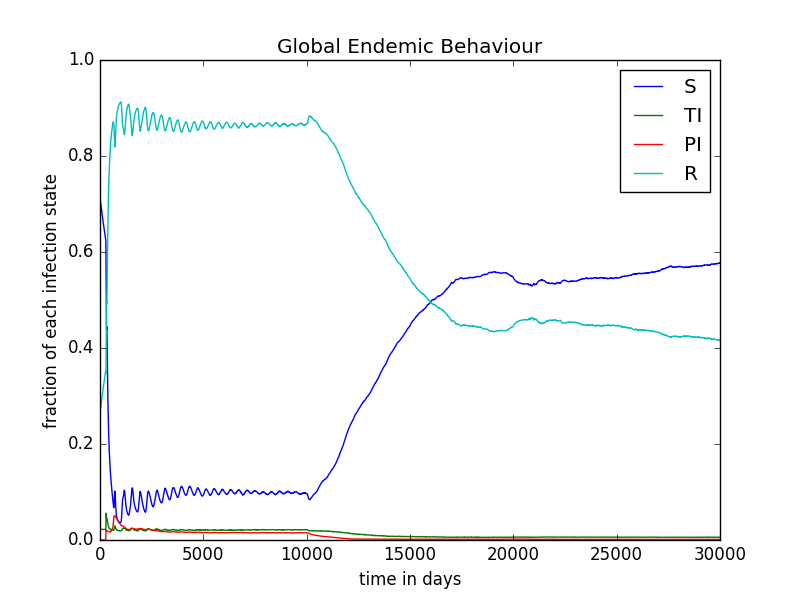
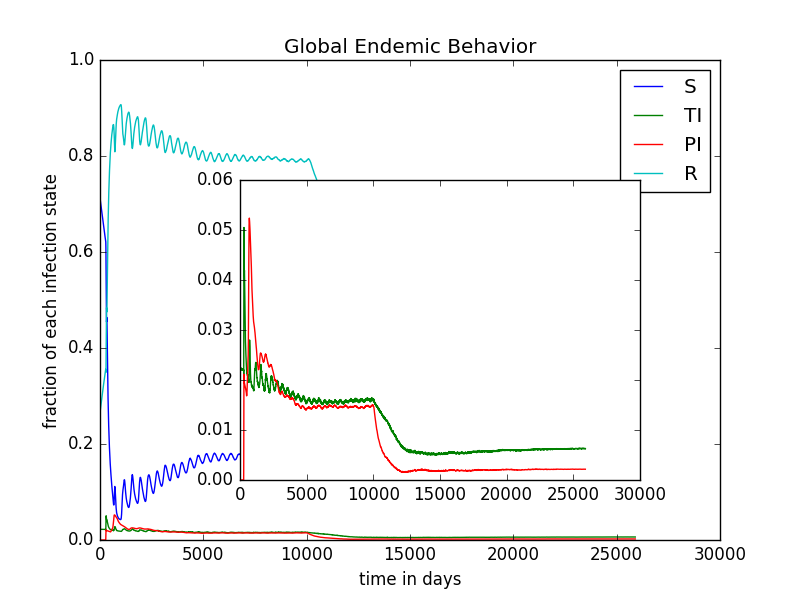
Added more pictures and did some random stuff and almost finished up the results of the containment strategies

diff --git a/Results.tex b/Results.tex
@@ -1,13 +1,14 @@
 \chapter{Results}
-In this chapter the results produced by the application of the different trading strategies are discussed, but first of all final instructions on the setup of the system are given. 
+In this chapter the results produced by the application of the different trading strategies are discussed, but first of all final instructions on the setup of the system are given. Since the simulation is far from being perfect, the analysis of the data will mostly be qualitative.
 \section{Final Setup}
 After the previously performed trading analysis in chapter \ref{chap:tradingDynamics} the configuration from scenario has been used in all further studies. The corresponding ini files can be found in the appendix in \ref{chap:iniContainment}. They resemble the description given in chapter \ref{chap:testedStrategiesDesc}.  
 In order to keep the runtime reasonable for this thesis and testing, farms with a smaller size than 20 cows have been excluded from the simulation. The argument for this is that small farms can not build a sustainable business and are rather run by families, which want to make some money besides their daytime jobs. They will most likely not buy and sell cows all the time and therefore not play a big role in the spreading of BVD on the network. This assumption has not been proven by now. \citep{steinbach16} provided a categorisation of nodes based on their trading behavior as markets, traders, self-sustaining premises, fattening and breeding farms. This method could be refined to build a more realistic model of the market in the future. 
 Applying this idea removes $15272\cows$ ($4.46\,\%$) in $5544\,\text{farms}$ ($82.16\,\%$).
 Since the behavior of the different farms has not been studied and implemented in this simulation fully and because the system size in terms of farms is much smaller than the actual network size of all of Thuringia, the implementation of a more refined and realistic market behavior has been postponed. 
-The data given in chapter \ref {chap:rlDataRegulationGermany} has been used to set up the system. This was done by randomly choosing $2\,\%$ of the farms to be set up with the shares of the different compartments of previously with PIs contaminated farms. The other $98\,\%$ of the farms were set up with the shares of all compartments corresponding to now previous contamination by PIs. With all these measures taken multiple simulations where run. The global prevalence strongly depends on the farms chosen to be infected in the beginning. If smaller farms are contaminated in the beginning, the disease will need much longer to spread or even die out, since far less animals are infected and the in- and out-degree of these small farms are relatively small, which leads to a smaller infection rate for all other nodes. With the aim of limiting the amount of scenarios to be discussed, one scenario which exposed a prevalence close to the big single farm with approximately $40000\cows$ from section \ref{chap:diseaseDynamicsDesc} has been chosen. It exhibited the highest global prevalence after $20\days$. The seed from this run is used in all runs for the different strategies, to make sure that the transients for the system for all strategies look exactly the same. By setting the seed of the random number generator, two streams of random numbers produced by this random number generator will be exactly the same. This is used to have the same events happen during the transient phase for all strategies, leading to results, which can be compared. The containment strategies in each scenario are turned on on a global scale after $10000\days$. The cows from the cow well farm still 
+The data given in chapter \ref {chap:rlDataRegulationGermany} has been used to set up the system. This was done by randomly choosing $2\,\%$ of the farms to be set up with the shares of the different compartments of previously with PIs contaminated farms. The other $98\,\%$ of the farms were set up with the shares of all compartments corresponding to now previous contamination by PIs. With all these measures taken multiple simulations where run. The global prevalence strongly depends on the farms chosen to be infected in the beginning. If smaller farms are contaminated in the beginning, the disease will need much longer to spread or even die out, since far less animals are infected and the in- and out-degree of these small farms are relatively small, which leads to a smaller infection rate for all other nodes. With the aim of limiting the amount of scenarios to be discussed, one scenario which exposed a prevalence close to the big single farm with approximately $40000\cows$ from section \ref{chap:diseaseDynamicsDesc} has been chosen. It exhibited the highest global prevalence after $20\days$. The seed from this run is used in all runs for the different strategies, to make sure that the transients for the system for all strategies look exactly the same. By setting the seed of the random number generator, two streams of random numbers produced by this random number generator will be exactly the same. This is used to have the same events happen during the transient phase for all strategies, leading to results, which can be compared. The containment strategies in each scenario are turned on on a global scale after $10000\days$. 
+The cow well farm still introduces pregnant cows, $2\,\%$ of which are PIs, into the system, which exceeds the most pessimistic guess of $1.5\,\%$ by \citep{personalCom}, which was based on import data from HIT and EuroStat.  
 \section{Strategy I - No Strategy}
-This first run corresponds to the control group in clinical tests of medication. As can be seen in figure \ref{fig:cont1Behav}, the simulation reaches a stable state with some smaller oscillations between $5000\text{ and } 10000\days$. The numbers of TIs and PIs are almost the same with the number of TIs being slightly higher, at around $1.75\,\%$ of the total population. The number of recovered animals stabilizes around $80\,\%$ of the population. The numbers of recovered and transiently infected animals are lower than they were for the single farms in chapter \ref{chap:diseaseDynamicsDesc}, whereas the prevalence of PIs is slightly higher. The number of susceptibles is much higher compared to the results for the single farm. 
+This first run corresponds to the control group in clinical tests of medication. As can be seen in figure \ref{fig:cont1Behav}, the simulation reaches a stable state with some smaller oscillations between $5000\text{ and } 10000\days$. The total number of animals stabilizes slightly beneath its initial value of $326439\cows$ at approximately $316000\cows$. The numbers of TIs and PIs are almost the same with the number of TIs being slightly higher, at around $1.75\,\%$ of the total population. The number of recovered animals stabilizes around $80\,\%$ of the population. The numbers of recovered and transiently infected animals are lower than they were for the single farms in chapter \ref{chap:diseaseDynamicsDesc}, whereas the prevalence of PIs is slightly higher. The number of susceptibles is much higher compared to the results for the single farm. 
 \begin{figure}[htbp]
 \begin{minipage}{0.5\textwidth}
 \centering
@@ -19,14 +20,14 @@ keepaspectratio]{cont1totalEndemicNumbers.png}
 \noindent\includegraphics[width=0.95\linewidth,height=\textheight,
 keepaspectratio]{cont1endemicFractions.png} 
 \end{minipage}
-\caption[Endemic Behavior in Containment Strategy One]{}
+\caption[Endemic Behavior in Containment Strategy One]{Strategy I}
 \label{fig:cont1Behav}
 \end{figure} 
 
 The difference in the results have to be created by the way the system is initialized. This shows that due to the way of initializing the system far less farms and therefore cows are actually reached by the disease. On the other hand this seems to increase the risk of PIs being produced if an infected animal reaches a farm of purely susceptibles, leading to a slightly higher share of PIs on the total population of the system.
 
-\section{Strategy II - Old BVD regulation}
-As described above the scenario described in this chapter will deal with tests made on every calve a few days after its birth, following the "old" German BVD regulation.
+\section{Strategy II - Old BVD Regulation}
+As described above the scenario described in this chapter will deal with tests made on every calve a few days after its birth, following the "old" German BVD regulation. A clear drop in the total population of animals, the group of recoverd as well as in the groups of TIs and PIs can be noticed. This drop needs to be due to the testing which is started on day $10000$. Unfortunately the total population does not recover to its full size within the time span of the simulation. The fraction of Rs on the total population drops as far as roughly $55\,\%$, giving rise to the share of susceptibles to about $40\,\%$.
 \begin{figure}[htbp]
 \begin{minipage}{0.5\textwidth}
 \centering
@@ -38,13 +39,15 @@ keepaspectratio]{cont2totalEndemicNumbers.png}
 \noindent\includegraphics[width=0.95\linewidth,height=\textheight,
 keepaspectratio]{cont2endemicFractions.png} 
 \end{minipage}
-\caption[Endemic Behavior in Containment Strategy One]{}
+\caption[Endemic Behavior in Containment Strategy Two]{Strategy II}
 \label{fig:demographyScen8}
 \end{figure}
+According to \citep{hofig2014untersuchungen} Switzerland implemented a testing system and prohibited vaccination in 2008, which lowered the PI prevalence from a value between $1.4\,\%-1.8\,\%$ to a value $0.02\,\%-0.06\%$ in the end of 2012. The data acquired in this test looks quite similar. A more precise analysis will be given in the comparison of all strategies in section \ref{chap:stratComparison}. The most important finding of this test is that Testing of all calves alone is not sufficient to fully eradicate the disease as such.
 
-
-\section{Strategy III - New BVD regulation}
-
+\section{Strategy III - New BVD Regulation}
+The new BVD regulation imposes a quarantine after a positive test and shortens the timespan between the first positive test and second test for ensuring the owner of the cow. As discussed in chapter \ref{chap:newBVDRegulationDesc}, this change could be crucial, but due to bonuses paid by most of the federal states, it could also be negligible. 
+The most important finding in the figures \ref{fig:contScen3} is that the total population in the system starts to grow exponentially after the start of the tests, which is also why the simulation was stopped after roughly $26000\days$. By the time of writing this thesis it was unclear why this happens. The effects of this rise in population are unclear, but the plot of the shares of the different compartments, especially the subplot of PIs and TIs give the idea that there is no real effect on the prevalence on a global scale. A closer look on farm level might be useful. It can be seen that just as in the Strategy two this Strategy is not sufficient for the eradication of the disease. It even looks as if strategy two was just as efficient as strategy three. A more precise description will be given in \ref{chap:stratComparison}.
+This is most likely due to the fact that 
 \begin{figure}[htbp]
 \begin{minipage}{0.5\textwidth}
 \centering
@@ -54,15 +57,15 @@ keepaspectratio]{cont3totalEndemicNumbers.png}
 \begin{minipage}{0.5\textwidth}
 \centering
 \noindent\includegraphics[width=0.95\linewidth,height=\textheight,
-keepaspectratio]{cont3pendemicFractions.png} 
+keepaspectratio]{cont3endemicFractions.png} 
 \end{minipage}
-\caption[Endemic Behavior in Containment Strategy One]{}
-\label{fig:demographyScen8}
+\caption[Endemic Behavior in Containment Strategy Three]{Strategy III}
+\label{fig:contScen3}
 \end{figure}
+As expected this run returns exactly the same results for the first ten thousand days as the simulation for strategies I \& II. 
 
-
-\section{Strategy IV - New BVD regulation + Vaccination}
-
+\section{Strategy IV - New BVD Regulation + Vaccination}
+The graphs in figure \ref{fig:contStrat4} expose the same extreme of simulation artifacts as the plots in figure \ref{fig:contScen3}. The total population starts rising exponentialy just after putting the regulation in place. The total number of animals is still relatively stable for the first $5000\days$ of the simulation, growing less then $12\,\%$. Because the simulation time was rising to much, the simulation was aborted after $26000\days$, too. The rise in population in the first $1500\days$ after starting the program is almost only due to more recovered animals and then starts to be split up evenly among the groups of susceptibles and recovereds. In the end the group of immune animals makes up roughly $70\,\%$ of the total population.
 
 \begin{figure}[htbp]
 \begin{minipage}{0.5\textwidth}
@@ -75,12 +78,16 @@ keepaspectratio]{cont4totalEndemicNumbers.png}
 \noindent\includegraphics[width=0.95\linewidth,height=\textheight,
 keepaspectratio]{cont4endemicFractions.png} 
 \end{minipage}
-\caption[Endemic Behavior in Containment Strategy One]{}
-\label{fig:demographyScen8}
+\caption[Endemic Behavior in Containment Strategy Four]{Strategy IV}
+\label{fig:contStrat4}
 \end{figure}
+At the point of writing this thesis the simulation makes no difference between recovered and vaccinated animals, so the rise in recovered animals should actually be due to a big number of animals being vaccinated. Since the rise of animals should be inhibited by the common denominator between the two strategies, it is likely that it is induced by the procedure of the new BVD regulation. The shorter time window for testing an animal again should not be the reason for the problems. The other big change is the quarantine phase in that time frame. There might be an issues with the way the quarantine is implemented, but it could not be found by now and does not (seem to) occur in the following scenarios. If there is a problem with the implementation of the quarantine, it could explain why both strategies need some time to lower the share of PIs on the total population: They need to wait for the PIs to die out instead of accidentally trading them. Of course this only plays a role for the PIs which where tested negative, since the positive tested animals will be removed anyways.
+The fact that only $70\,\%$ of the total population are immune at the end of the simulation seems unintuitive at first. The simulation is set up to vaccinate a cow for the first time $42\days$ before its first insemination. The time of first insemination follows a triangle distribution and is located between $480\days$ and $600\days$, making the first vaccination happen between $438\days$ and $558\days$ into the life of the calf. A look at the \ref{fig:demographyScen7} shows that the average lifespan of a cow is in the range of $1500-1800\days$, leaving about a third of the life of an average cow without vaccination and therefore without immunity. This is especially true of the amount of recovered cows is small, because almost no infections take place anymore and therefore the number of calves protected by their maternal antibodies is negligible.
 
 
-\section{Strategy V - New BVD regulation + young calf window}
+\section{Strategy V - New BVD Regulation + Young Calf Window}
+As mentioned in the description of strategies, this strategy will incorporate all rules from the new BVD regulation of Germany as well as an added herd-level detection mechanism, the Young Calf Window. As discussed in the description of the Young Calf Window, the scenarios V \& VI will be split up into two scenarios each. One of which will test the YCW once every half a year (a) whereas the other subscenario (b) tests cows for the YCW only once a year.
+
 \subsection{Strategy Va}
 
 \begin{figure}[htbp]
@@ -92,14 +99,16 @@ keepaspectratio]{cont5totalEndemicNumbers.png}
 \begin{minipage}{0.5\textwidth}
 \centering
 \noindent\includegraphics[width=0.95\linewidth,height=\textheight,
-keepaspectratio]{cont5endemicFractions.png} 
+keepaspectratio]{cont5pendemicFractions.png} 
 \end{minipage}
-\caption[Endemic Behavior in Containment Strategy One]{}
-\label{fig:demographyScen8}
+\caption[Endemic Behavior in Containment Strategy Five A]{Strategy Va}
+\label{fig:contStrat5a}
 \end{figure}
-
+The plots of the results of the simulation for strategy Va shown in figure \ref{fig:contStrat5a} are the first plots showing a relaxation of the total population size to its initial value. This is only possible after the disease as such has almost completely been eradicated. The time needed for the eradication process is exactly the time set for the Jungtierfenster to take place. In other words exactly half a year after the program has been started, the share of PIs and TIs drops to almost zero. 
+Since the program includes no vaccination, all recovered animals in the simulation need to have had contact with infected animals before. This means that there are still infected animals in the system. They might just be put into the system by the cow well farm. Another test is supposed to find out how big of a percentage of PIs can be brought into the system by the cow well farm. 
+The explanation for the drop in the population shares of TIs and PIs is quite straight forward: When the YCW is carried out for the first time, all farms are scanned. The prevalence of recovered animals in a herd that recently used to be home to a PI is around $90\,\%$, which makes it almost impossible to not detect any of them. After one of them has been detected, the whole farm will be scanned. With a $99.8\,\%$ probability infecteds will be discovered. Roughly $75\,\%$ of them will be removed directly, the other $25\,\%$ will be removed or die within $40\days$. Another test was performed to find out if the infected animals staying in the system where introduced by the cow well farm by setting the number of PIs in the cow well farm to zero. Still a nonzero amount of TIs and PIs was observed.
 \subsection{Strategy Vb}
-
+The results from strategy Vb (figure \ref{fig:contStrat5b}) look almost exactly the same as the results from strategy Va. Two major differences between the two scenarios is that the drop in PIs and TIs takes place half a year later, a year after installing the program and that the program seems to be even more effective in eradicating the disease. Still the system exposes fluctuations in the numbers of recovereds and susceptibles around $21000\days$, indirectly indicating the presence of TIs and/or PIs. The peak in the total population after the start of the program is a little bit more pronounced in comparison to strategy Va.
 \begin{figure}[htbp]
 \begin{minipage}{0.5\textwidth}
 \centering
@@ -109,13 +118,14 @@ keepaspectratio]{cont5btotalEndemicNumbers.png}
 \begin{minipage}{0.5\textwidth}
 \centering
 \noindent\includegraphics[width=0.95\linewidth,height=\textheight,
-keepaspectratio]{cont5bendemicFractions.png} 
+keepaspectratio]{cont5bpendemicFractions.png} 
 \end{minipage}
-\caption[Endemic Behavior in Containment Strategy One]{}
-\label{fig:demographyScen8}
+\caption[Endemic Behavior in Containment Strategy Five B]{Strategy Vb}
+\label{fig:contStrat5b}
 \end{figure}
 
-\section{Strategy VI - New BVD regulation + Vaccination + young calf window} 
+\section{Strategy VI - New BVD Regulation + Vaccination + Young Calf Window} 
+The final composition of methods of containment incorporates the testing of calves following the most recent BVD regulation, vaccination and the YCW. The section for this strategy is split up into two sections for the different configurations of the jungtierfenster.
 \subsection{Strategy VIa}
 
 \begin{figure}[htbp]
@@ -127,14 +137,14 @@ keepaspectratio]{cont6totalEndemicNumbers.png}
 \begin{minipage}{0.5\textwidth}
 \centering
 \noindent\includegraphics[width=0.95\linewidth,height=\textheight,
-keepaspectratio]{cont6endemicFractions.png} 
+keepaspectratio]{cont6pendemicFractions.png} 
 \end{minipage}
-\caption[Endemic Behavior in Containment Strategy One]{}
-\label{fig:demographyScen8}
+\caption[Endemic Behavior in Containment Strategy Six A]{Strategy VIa}
+\label{fig:contStrat6a}
 \end{figure}
-
+The very imprecise depiction of the results of the simulation for strategy VIa in figure \ref{fig:contStrat6a} resemble the ones from strategy Va quite well including the shape of the peaks in total population size as well as the number of recovered animals right after the first screening of the YCW. The major difference is that due to the vaccination the number of recovered animals stays at roughly $70\,\%$. This can easily be explained by the failed missing distinction between recovered and vaccinated animals as it is described for strategy IV. The share of immune animals tends to the same value of roughly $70\,\%$ as for scenario IV. 
 \subsection{Strategy VIb}
-
+The last of all tested strategies exposes no new characteristics. The plots in figure \ref{fig:contStrat6b} show the same behavior as the ones above with the only difference being a higher peak in the total number of cows and in the number of recovered animals. 
 \begin{figure}[htbp]
 \begin{minipage}{0.5\textwidth}
 \centering
@@ -144,10 +154,25 @@ keepaspectratio]{cont6btotalEndemicNumbers.png}
 \begin{minipage}{0.5\textwidth}
 \centering
 \noindent\includegraphics[width=0.95\linewidth,height=\textheight,
-keepaspectratio]{cont6bendemicFractions.png} 
+keepaspectratio]{cont6bpendemicFractions.png} 
 \end{minipage}
-\caption[Endemic Behavior in Containment Strategy One]{}
-\label{fig:demographyScen8}
+\caption[Endemic Behavior in Containment Strategy Six B]{Strategy VIb}
+\label{fig:contStrat6b}
 \end{figure}
 
-\section{Comparison of the different Strategies}
+\section{Comparison of the different Strategies}\label{chap:stratComparison}
+Figure \ref{fig:contComp1} shows the prevalences of PIs and TIs of the first four scenarios. The two test scenarios in strategy II and III are almost identical with strategy III even being slightly less effective than strategy II. This could be caused by the peculiar rise of the population. The PI prevalence is lowered to $0.2\,\%$ after roughly $5.5\,\text{years}$. This means that $87.5\,\%$ of all PIs have been removed from the system. According to \citep{personalCom} the PI prevalence in Thuringia has been lowered from $0.44\,\%$ in 2011 to $0.05\,\%$ 2015, which would be roughly the same percentage ($88.6\,\%$) of all PIs removed in 4 years. This means that the testing in the simulation removes roughly the same percentage of PIs in approximately 1.4 times the time that the testing takes in reality. Expanding the plot beyond the time of $18000\days$ reveals that the prevalence of PIs and TIs keeps declining in scenario 2, and continuous rising in scenario 3.T
+\begin{figure}[htbp]
+\centering
+\noindent\includegraphics[width=0.8\linewidth,height=\textheight,
+keepaspectratio]{comp1b4endemicFractions.png} 
+\caption[Comparison of Prevalences for the Strategies I-IV]{}
+\label{fig:contComp1}
+\end{figure}
+\begin{figure}[htbp]
+\centering
+\noindent\includegraphics[width=0.8\linewidth,height=\textheight,
+keepaspectratio]{comp4t6bendemicFractions.png} 
+\caption[Comparison of Prevalences for the Strategies IV-VIb]{}
+\label{fig:contComp2}
+\end{figure}

diff --git a/legislation.tex b/legislation.tex
@@ -8,10 +8,11 @@ EEC regulation \citep{verordnung17602000}, which has been transformed into an EU
 nation wide regulations were out in place, to prevent further spreading of BVDV within German cattle farms. This old regulation from 2010 has been changed in 2016.
 \subsubsection{Old BVD Regulation}
 The old BVD regulation \citep{bvdvoold} defines a few rules, which have to be followed. First of all all newborn calves have to be tested for BVDV and older cows which are supposed to be traded, need to be tested, too. The leaflet \citep{bvdvorheinlandpfold} recommends combining the test with the application of the ear tag of each calve. It furthermore states that the cost for the tests as well as the removal of ill cows within two weeks after a positive test will be paid by the federal state, which is a measure taken by multiple federal states according to \citep{personalCom}. If a bovine is only brought directly to the slaughterhouse, the veterinary or a fattening farm, which only sell cows to a slaughterhouse, it does not need to be tested. Furthermore the regulation defines the status of a farm to be BVD free, which means that for at least twelve months all calves over the age of six months have been tested negative and no signs of an infection have been noticed. The status can be maintained by further negative test results. As mentioned in the previous chapter on virological tests, farmers can decide to wait for a second positive test before removing the cow, but the leaflet mentioned above recommends to only do that for very valuable calves. If a calve has not been tested again after 60 days, it needs to be removed without any further options. According to \citep{openagrar_mods_00019481} the state of the animal needs to reported to the HIT database. It states that 
-\subsubsection{New BVD Regulation}
+\subsubsection{New BVD Regulation}\label{chap:newBVDRegulationDesc}
 In 2016 the new BVD regulation \citep{bvdverordnungaenderung},\citep{bvdvonew} replaced the older version from 2010 (see above). It reduced the maximum timespan for a second test from 60 to 40 days and after a positive test the respecting farm is put under quarantine till the second test has taken place. This change of the maximum time for a second test as well as the quarantine might be crucial. It was shown by \citep{pereira2015control} that for an SIS model the time spend before putting infected individuals into quarantine can have a huge impact on the further spread of the disease. If cows are tested immediately after birth, the response time before putting the farm into quarantine should be relatively low. Even if the calf is tested a second time, it can only infect others on the same premise.
+On the other hand many federal states paid farmers a bonus if they removed cows fastly \citep{bvdvorheinlandpfold},\citep{personalCom}, because of the need to remove PIs as fast as possible, so the effect of the new BVD might be negligible.
 \subsubsection{Definitions of Young Calf Window Procedure}\label{chap:ycwdef}
-Different (federal) states decided on different rules for choosing the cows to be tested for the young calf window testing procedure. 
+Different (federal) states decided on different rules for choosing the cows to be tested for the young calf window testing procedure. This part of the thesis gives a small overview on different implementations of the YCW provided by \citep{personalCom}.
 \subparagraph{Thuringia}\label{chap:stratThuringia}
 \begin{itemize}
 \item $n = 15\,\text{cows}$ need to be tested (compare to table \ref{tab:certaintyPrevalenceTest}).
@@ -57,11 +58,8 @@ All containment strategies aim to lower the probability of infection. Since the 
 Testing and culling of animals, which were tested positive, reduces the number of infected (TIs and PIs), especially the number of PIs. This is basically done by increasing the death rate of both groups. 
 Quarantine changes the structure of the network. It will set at least the outgoing component of the adjacency matrix of this farm to zero, thereby reducing the probability for other farms to add a TI or PI to their farm. Unfortunately the test does not detect all infecteds, so there is still a small entry rate of PIs and TIs in every farm.
 The YCW is just another way of improving the certainty that a infection in the herd is detected thereby increasing the effect of the other two methods.
-\subsection{Prevalences without any Regulation}
 
-\paragraph{Germany}
-\subsection{Regulation in Germany}\label{chap:rlDataRegulationGermany}
-\paragraph{Thuringia}
+\subsection{Prevalence in Thringia}\label{chap:rlDataRegulationGermany}
 The distribution of the different compartments of a single farm with PIs which have been in this farm for some time is the following:
 \\
 \begin{minipage}[t]{0.5\linewidth}
@@ -83,5 +81,5 @@ PIs for a long time
     \end{itemize}
 \end{minipage}
 \\
-A survey across all of Thuringia in 2010 revealed those distributions. This survey revealed that $534\,\text{PIs}$ were living in $211\,\text{farms}(\approx 2\,\%)$. of all farms.\footnote{ (Quelle) }
+A survey across all of Thuringia in 2010 revealed those distributions. This survey revealed that $534\,\text{PIs}$ were living in $211\,\text{farms}(\approx 2\,\%)$. of all farms. This data will be used to initialize the simulation.\footnote{ (Quelle) }
 

diff --git a/sis.tex b/sis.tex
@@ -1,2 +1,2 @@
 \subsubsection{SIS-Model}
-SIS-Models (Susceptible-Infected-Susceptible-Models) are an another type of compartmental models. The use of this kind of model can be manifold. It can be used for disease such as bacterial infections, or some viruses, but it can also used for other models. For example \citep{BEL16} used this kind of model to describe a system of patients of hospitals where infected people could also \glqq leave\grqq\ the system while being replaced by new Susceptibles immediately. For virus infections like the flu it might be more realistic to use a SIRS-Model. A comprehensive comparison between the SIR and SIS model can be found in \citep{jacquez1993stochastic}.
+SIS-Models (Susceptible-Infected-Susceptible-Models) are an another type of compartmental models. The use of this kind of model can be manifold. It can be used for disease such as bacterial infections, or some viruses, or parasites such as lice. For example \citep{BEL16} used this kind of model to describe a system of patients of hospitals where infected people could also "leave"\ the system while being replaced by new Susceptibles immediately. For virus infections like the flu it might be more realistic to use a SIRS-Model. A comprehensive comparison between the SIR and SIS model can be found in \citep{jacquez1993stochastic}.

diff --git a/realLife.tex b/realLife.tex
@@ -1,4 +1,4 @@
-\subsection{Basics Of Statistics in Relation to Disease Dynamics}
+\subsection{Basics Of Statistics in Relation to Infection Dynamics}
 This small section is included to refresh the reader's memory regarding some basic statistical quantities. 
 \paragraph{Sensitivity}
 The sensitivity or true positive rate is the number of individuals $r_\text{p}$, who are tested positive and actually infected divided by sum of $r_\text{p}$ and $f_\text{n}$, individuals that have been tested negative even though they are infected:
